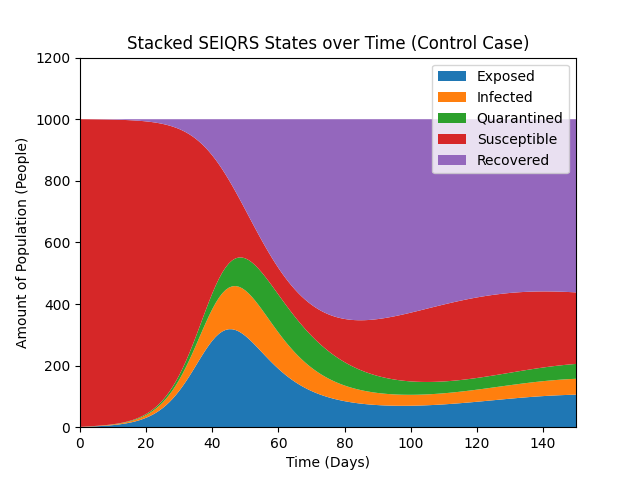
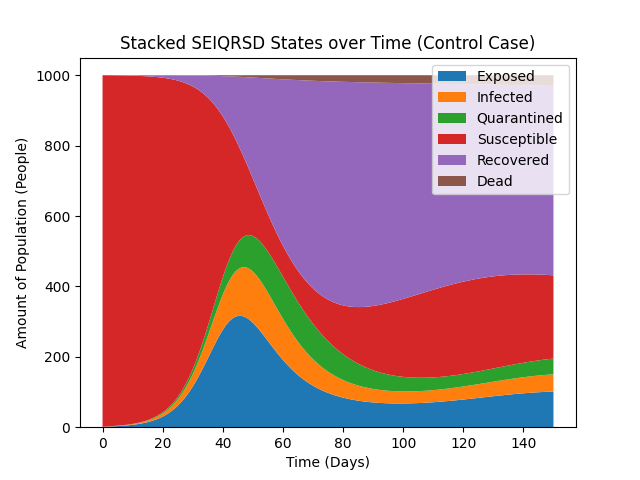
Newest Policy Graphs using SEIQRSD

diff --git a/seiqrsd.py b/seiqrsd.py
@@ -6,20 +6,20 @@ from r_plot import r_plot
 from model import deriv
 
 # Test Case
-save = False
-test_case = 'High Population'
+save = True
+test_case = 'Quarantine'
 print(f'Test Case: {test_case}')
 
 # Total population, N.
-N = 100000
+N = 1000
 # Initial number of infected and recovered individuals, I0 and R0.
 E0, I0, Q0, R0, D0 = 0, 1, 0, 0, 0
 # Everyone else, S0, is susceptible to infection initially.
-S0 = N - E0 - I0 - Q0 - R0 
+S0 = N - E0 - I0 - Q0 - R0 - D0
 # Contact rate(beta), incubation period(phi, in 1/days), quarantine rate(zeta, in 1/days), mean recovery rate in non-quarantine(gamma, in 1/days), mean recovery rate in quarantine(kappa, in 1/days), and immunity wearoff rate(mu, in 1/days).
-beta, phi, zeta, gamma, kappa, mu, alpha, epsilon = 0.9, 1./10, (1./10), 1./10, 1./10, (1./60), 0.1, 0.1
+beta, phi, zeta, gamma, kappa, mu, alpha, epsilon = 0.9, 1./10, 1.3 * (1./10), 1./10, 1./10, (1./60), 0.002, 0.002
 # A grid of time points (in days)
-t = np.linspace(0, 1600, 1600)
+t = np.linspace(0, 150, 150)
 
 print(f'Beta: {beta}, Gamma: {gamma}')
 r0 = r_plot(S0, N, beta, gamma, kappa, alpha)
@@ -38,8 +38,9 @@ Ie = (phi*kappa*mu*N*(beta-gamma-zeta))/(beta*((kappa*(gamma+zeta)*(mu+phi))+(ph
 Ee = (beta*Se*Ie)/(N*phi)
 Qe = (zeta*Ie) / kappa
 Re = (Ie*(gamma+zeta))/mu
+De = 0
 
-print(f'Se: {Se}, Ee: {Ee}, Ie: {Ie}, Qe: {Qe}, Re: {Re}')
+print(f'Se: {Se}, Ee: {Ee}, Ie: {Ie}, Qe: {Qe}, Re: {Re}, De: {D[-1]}')
 
 print(f'Imax = {max(I)}')
 print(f'Cases(max) = {max(I+Q)}')
@@ -69,9 +70,9 @@ plt.show(block=False)
 
 #Plot Stacked Area Graph
 plt.figure()
-plt.stackplot(t, E, I, Q, S, R, D, labels=['Exposed', 'Infected', 'Quarantined','Susceptible','Recovered'])
+plt.stackplot(t, E, I, Q, S, R, D, labels=['Exposed', 'Infected', 'Quarantined','Susceptible','Recovered', 'Dead'])
 plt.legend(loc='upper right')
-plt.title(f'Stacked SEIQRS States over Time ({test_case} Case)')
+plt.title(f'Stacked SEIQRSD States over Time ({test_case} Case)')
 plt.xlabel('Time (Days)')
 plt.ylabel('Amount of Population (People)')
 plt.autoscale()
@@ -87,13 +88,14 @@ plt.plot(t, I, label = "Infected")
 plt.plot(t, Q, label = "Quarantined")
 plt.plot(t, R, label = "Recovered")
 plt.plot(t, D, label = "Dead")
-# plt.axhline(y = Se, linestyle = '--')
-# plt.axhline(y = Ee, linestyle = '--')
-# plt.axhline(y = Ie, linestyle = '--')
-# plt.axhline(y = Qe, linestyle = '--')
-# plt.axhline(y = Re, linestyle = '--')
+plt.axhline(y = Se, linestyle = '--')
+plt.axhline(y = Ee, linestyle = '--')
+plt.axhline(y = Ie, linestyle = '--')
+plt.axhline(y = Qe, linestyle = '--')
+plt.axhline(y = Re, linestyle = '--')
+plt.axhline(y = De, linestyle = '--')
 plt.legend(loc='upper right')
-plt.title(f'SEIQRS State over Time ({test_case} Case)')
+plt.title(f'SEIQRSD State over Time ({test_case} Case)')
 plt.xlabel('Time (Days)')
 plt.ylabel('Amount of Population (People)')
 plt.autoscale()
